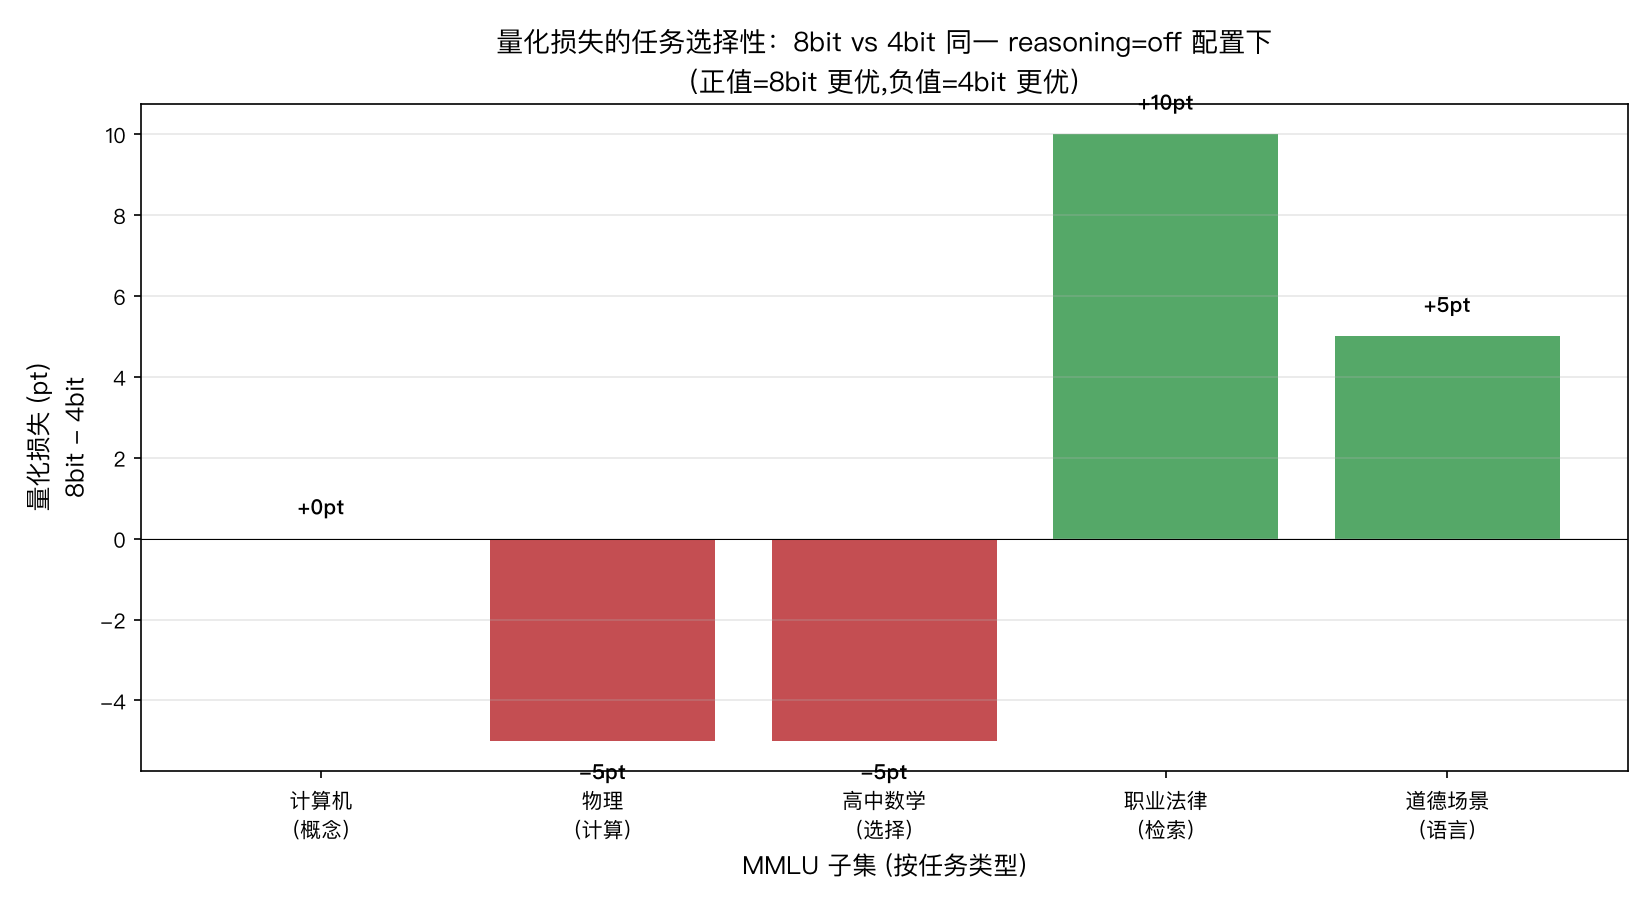
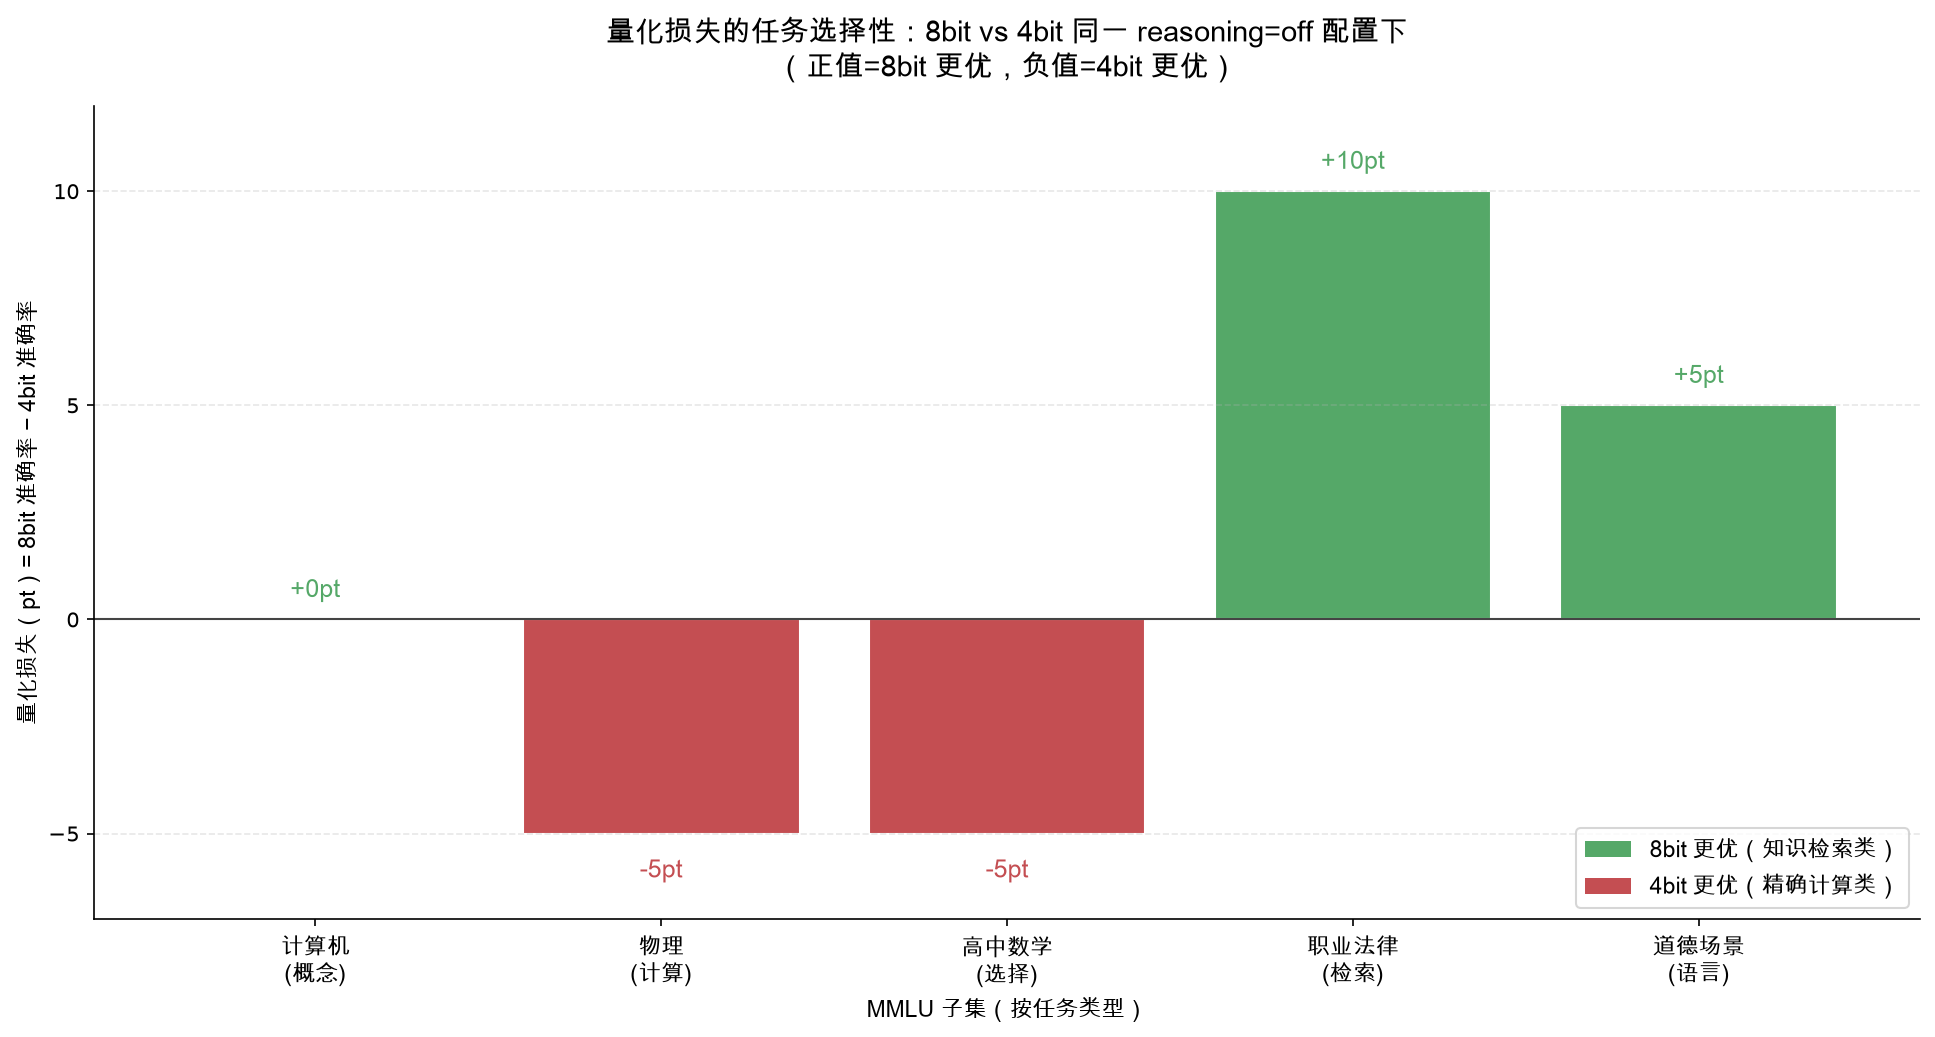
fix(content): rigor-gate 审计后优化
- Flash-Next: 加 HF 模型卡引用 + 诚实边界表 + 时间窗口预测局限标注 + 12/14 Rigor Gate 标识
- ASI-Bench: 导读改成'是什么'句式
- fig3_quant_task_selective: 重生成修复子集名方框（set_xticklabels 走 Arial Unicode）

diff --git a/hugo-src/content/AI/01-LLM原理与工程/ASI-Bench本地横评方法论：信息梯度与决策归因评测的完整拆解/_index.md b/hugo-src/content/AI/01-LLM原理与工程/ASI-Bench本地横评方法论：信息梯度与决策归因评测的完整拆解/_index.md
@@ -10,7 +10,7 @@ menu:
 
 # ASI-Bench 本地横评方法论：信息梯度与决策归因评测的完整拆解
 
-**导读**：这篇文章不是讲某个新模型，而是讲"怎么科学地评测本地模型"的方法论文。当你手上有两个本地模型，想知道"谁更聪明、谁更会自己想办法"，凭感觉跑几轮对话下结论是远远不够的。本文记录一套完整的本地化横评方法论：用信息梯度（Information Gradient）与决策归因（Decision Attribution）两个维度，把"模型能否自己想到正确方法"这件事量化出来，并在两个本地模型（35B MoE 与 27B chat）上完成了 40 次跑通的实测。文中包含实验设计、完整数据表、以及三个最容易被忽略的方法论陷阱——这些陷阱不避开，你的评测结果就是假的。
+**导读**：这是一篇关于"怎么科学地评测本地模型"的方法论文章，用信息梯度（Information Gradient）和决策归因（Decision Attribution）两个维度量化"模型能否自己想到正确方法"，在两个本地模型（35B MoE 与 27B chat）上完成了 40 次跑通的实测，输出包含实验设计、完整数据表和三个不避开就白测的方法论陷阱。
 
 ## 一、为什么值得关注：本地模型评测的三个困境
 
